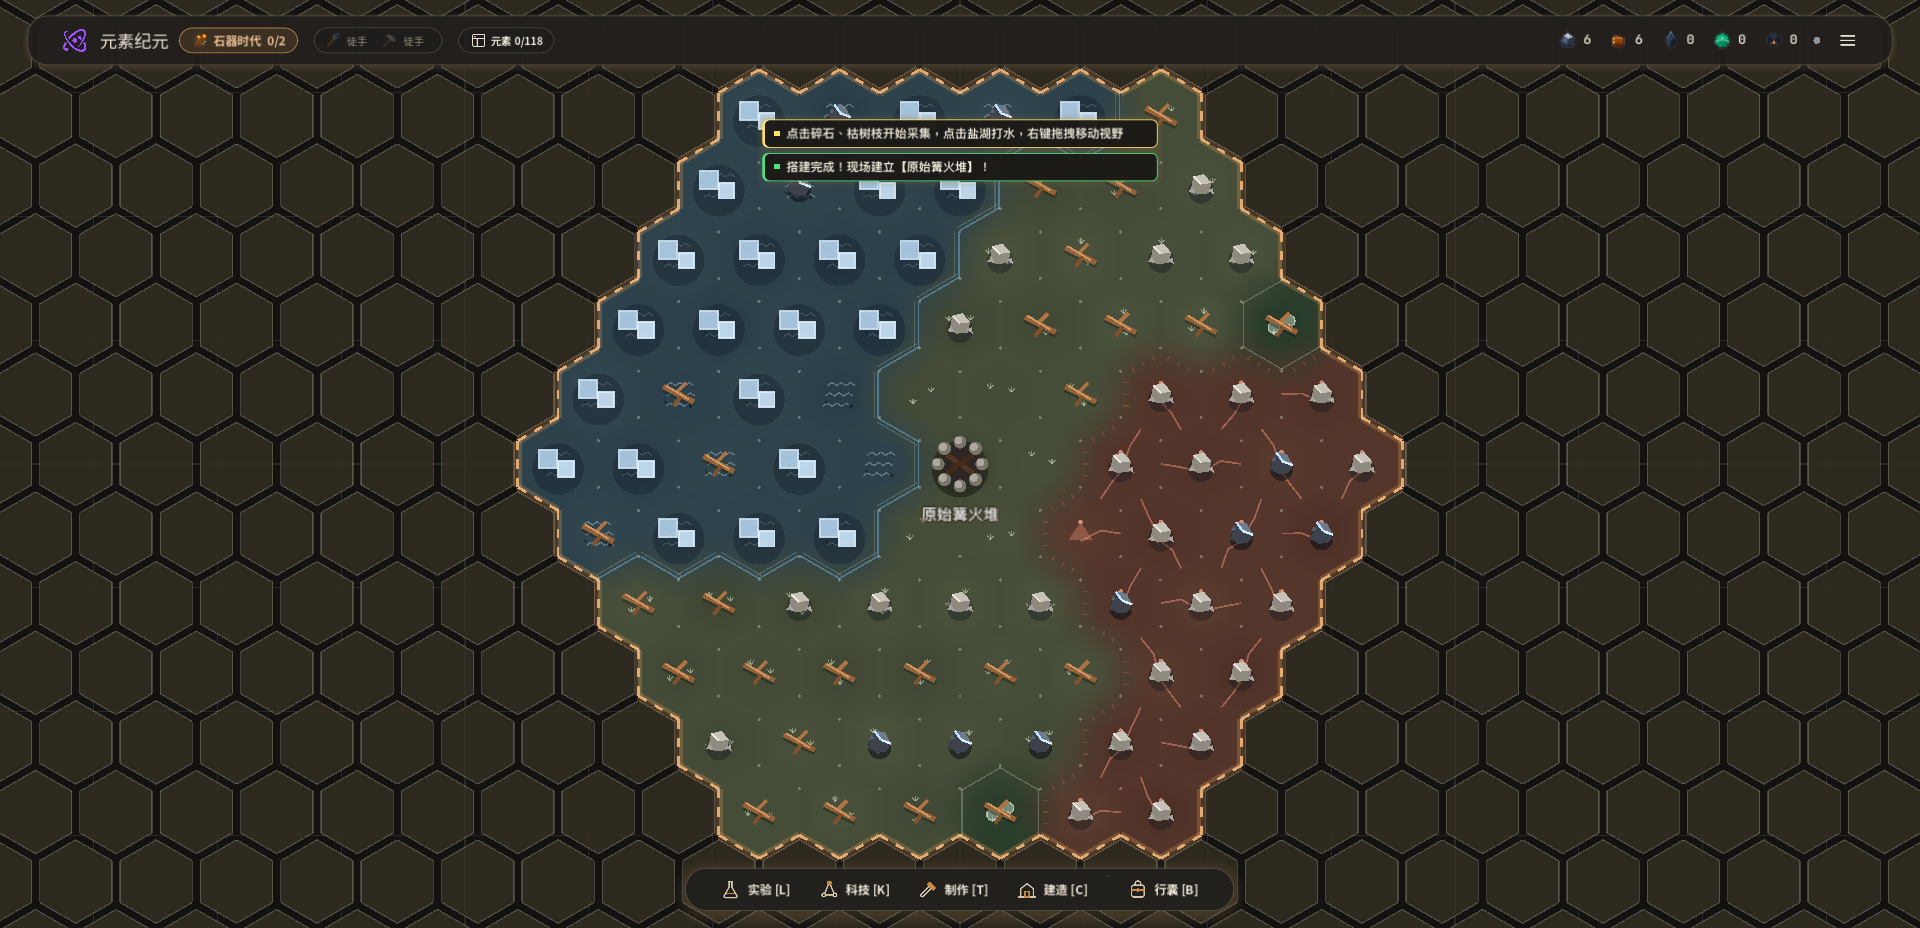
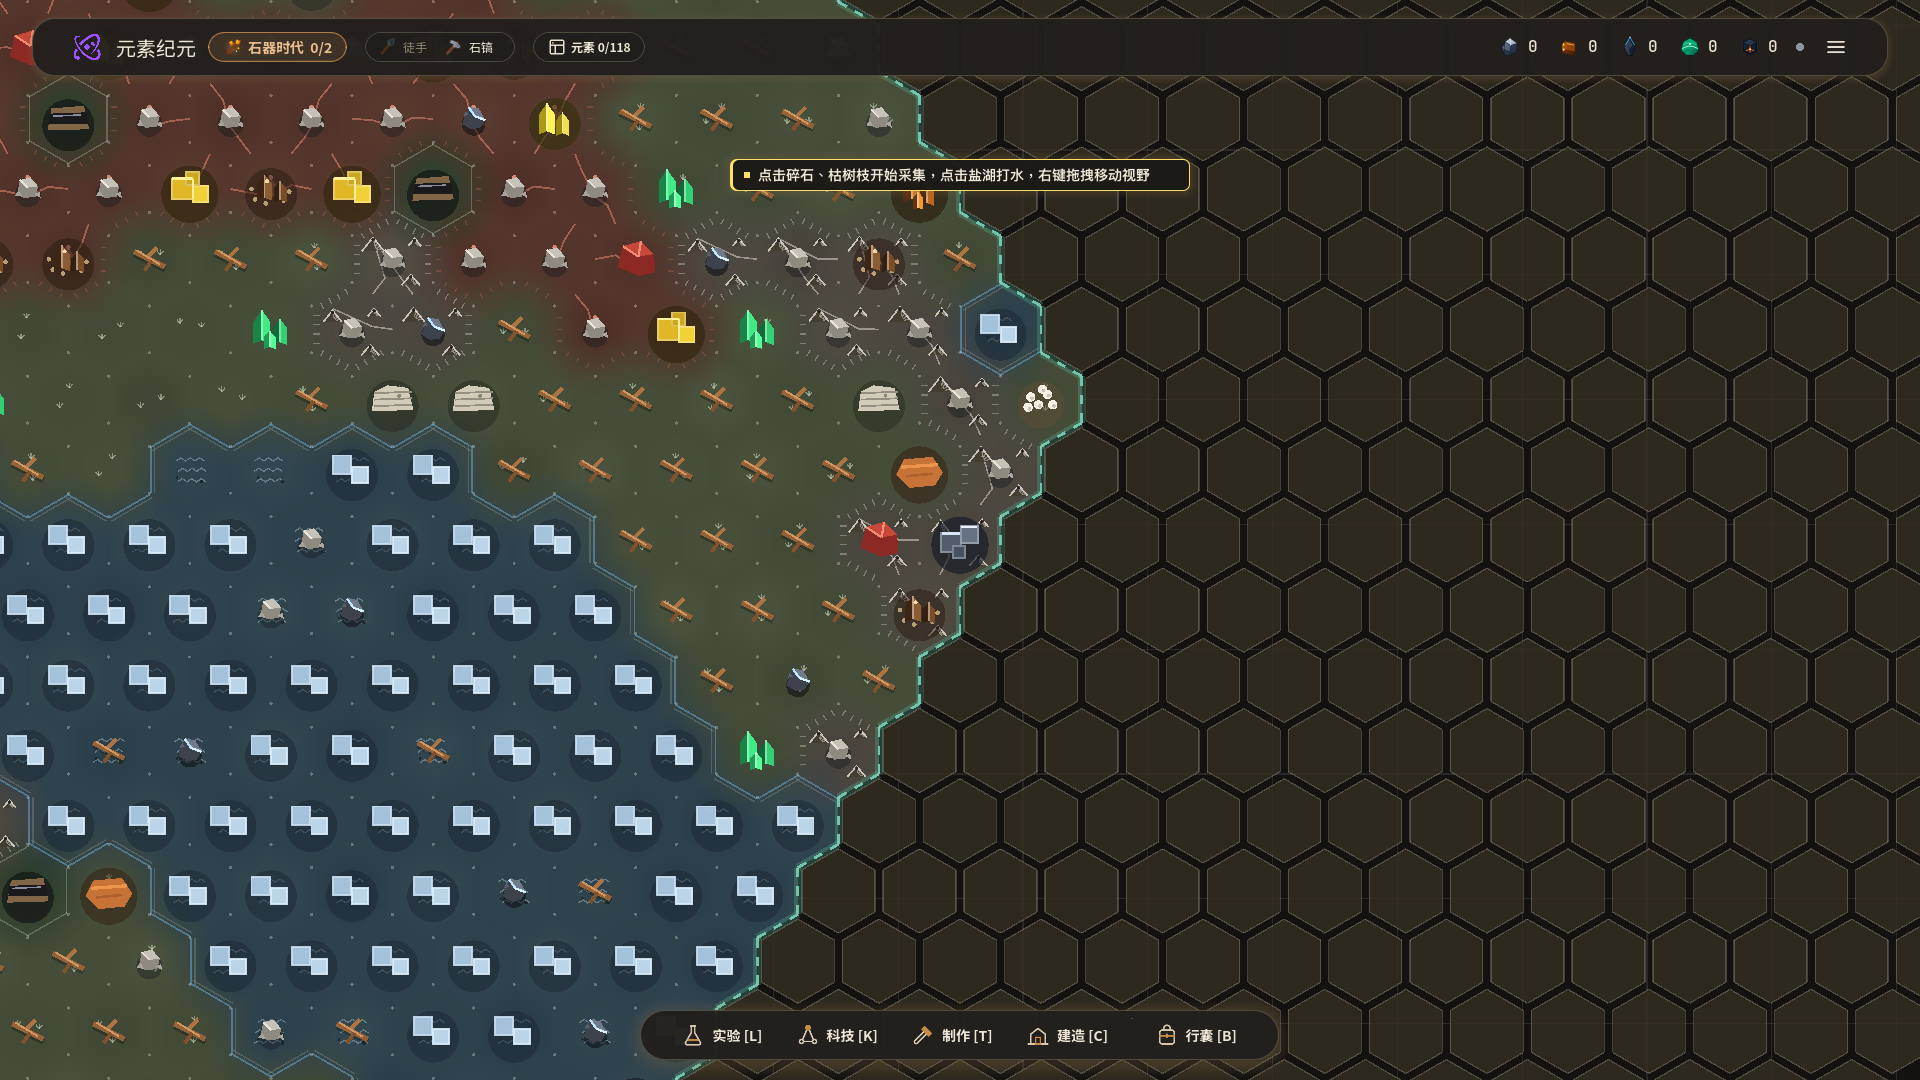
fix(resources): distinct map symbols for 7 ores, pooled vein drops
Tin ore, limestone, coal, graphite, niter, pyrolusite and cryolite fell
through to the loose-stone drawing, so players could not spot them.
Vein by-product drops rolled 5% each independently (~75% per dig by
modern chemistry); they now share one 6% roll with a hold cap of 10.
Drop eras follow first use, core alchemy ores get stronger guarantees,
and entering an era lists the new ores and where to find them.

diff --git a/AGENTS.md b/AGENTS.md
@@ -1094,6 +1094,16 @@
 - **播放**（autoload `MusicManager`，`src/core/music_manager.gd`）：两个播放器交替，切曲交叉淡化 2.5 秒；暂停时照常播放。主菜单播主菜单曲，大世界按当前时代播放，曲目路径读 `data/eras.json` 的 `bgm` 字段。时代跃迁先放乐句并把背景音乐压低 12 dB，乐句结束后切到新时代曲目；元素发现同样放乐句、压低音量。读档与新游戏也会发出 `era_advanced`，只切曲不放乐句（`SaveManager.is_loading`）；
 - **测试**：新增 `tests/test_music.tscn`（总线与音量设置、曲目可循环、主菜单 / 大世界曲目、跃迁乐句与压低、乐句后切曲、新游戏与读档不放乐句、元素发现乐句）。
 
+### 2.73 资源获取节奏：补齐矿脉地图符号、伴生掉落合并抽取 (2026-10-11)
+
+- **现象**：「开采不到锡」，却很快攒下几十块后期矿石；
+- **根因一：7 种矿在地图上画成碎石**。`resource_node._draw` 没有锡石、石灰岩、煤、石墨、硝石、软锰矿、冰晶石的分支，落到默认的碎石图形，只有悬停才显示名称。实际存档中离中心 2 格就有锡石。现在各有专属符号：锡石为砂粒中的深褐双锥晶体，石灰岩为灰白层理岩壁，煤为黑色层状露头，石墨为铅灰鳞片，硝石为白色絮状结壳，软锰矿为带树枝纹的黑色岩块，冰晶石为冰白方块晶体；
+- **根因二：伴生掉落逐条独立判定**。每条 5%、彼此叠加，近代化学时代用镐每挖一下约 75% 掉一块稀有矿。现在矿脉伴生（`on` 含 `pickaxe`）的条目合为一个池子：每次开采按 `VEIN_DROP_CHANCE = 0.06` 抽一次，抽中后从池中等概率选一种；行囊已有 `DROP_HOLD_CAP = 10` 份的不再掉落。这些条目在 `harvest_drops.json` 中不再写 `chance`。其余掉落（卤水、海藻、糯米、动物脂肪等）仍按各自的 `chance` 判定；
+- **掉落时代与用途对齐**：石英、硅藻土、动物脂肪改为近代化学时代，萤石改为电化学时代，锂辉石、锂云母改为稀土时代，绿柱石改为原子时代（均为配方 / 制作 / 科技最早用到它们的时代）；
+- **保底加强**：赤铁矿、锡石、煤、硫磺的保底由「8 格内 2 处」改为「7 格内 3 处」；
+- **新矿提示**：跨入新时代时追加一条通知，列出本时代新出现的矿及所在群系（`Simulation.new_era_resource_hint`），如「地图上出现了新矿：赤铁矿（火山/山地）、锡石（火山/山地）…」；
+- **测试**：`test_progression` 新增挖矿 1000 次稀有矿数量在 30~100 之间、每种不超过持有上限、新矿提示内容；动物脂肪与石英掉落的时代断言同步更新。进程校验六个时代均可完成，40 项科技均可研发，0 种孤立物品。
+
 ---
 
 ## 4. 全局键盘与鼠标操作控制总览 (Global Controls & Hotkeys)
